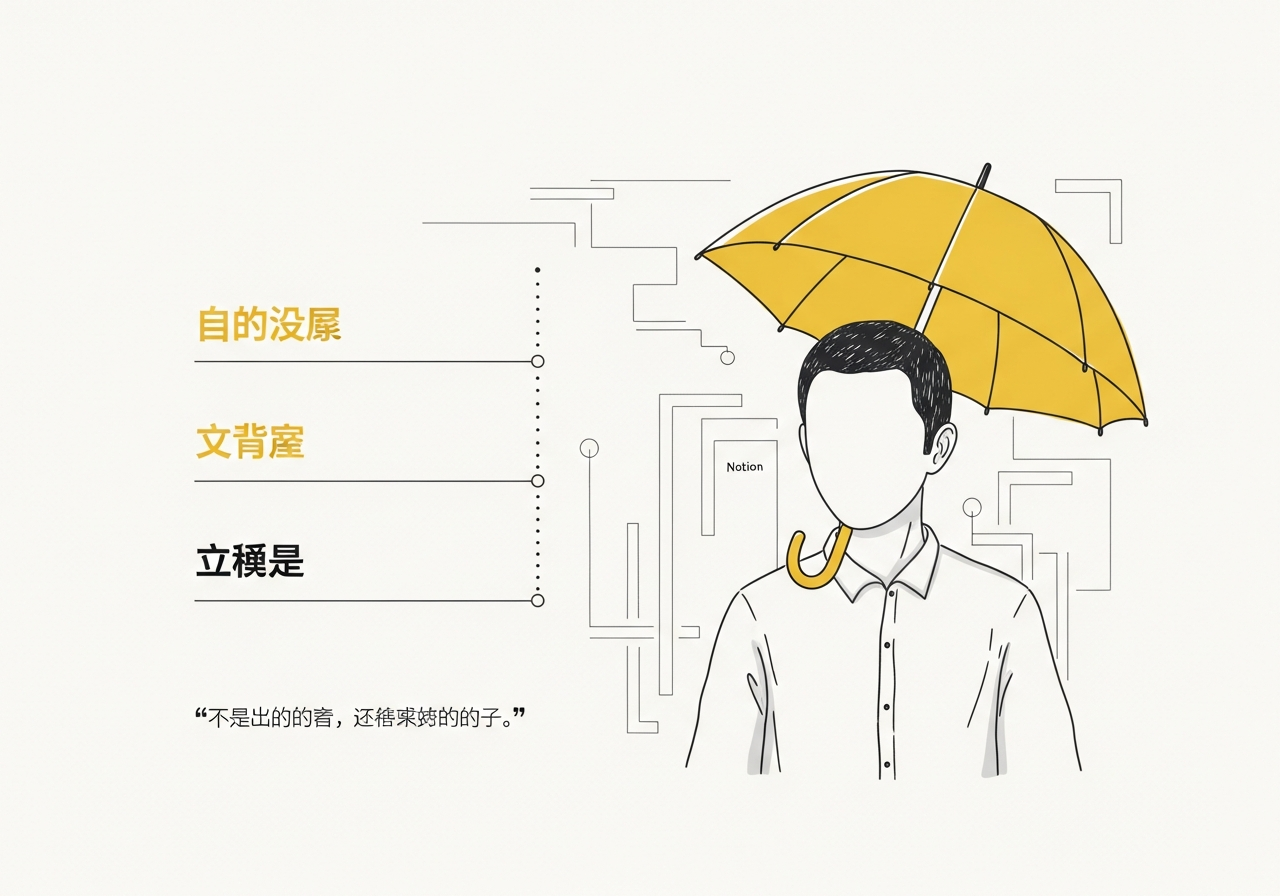
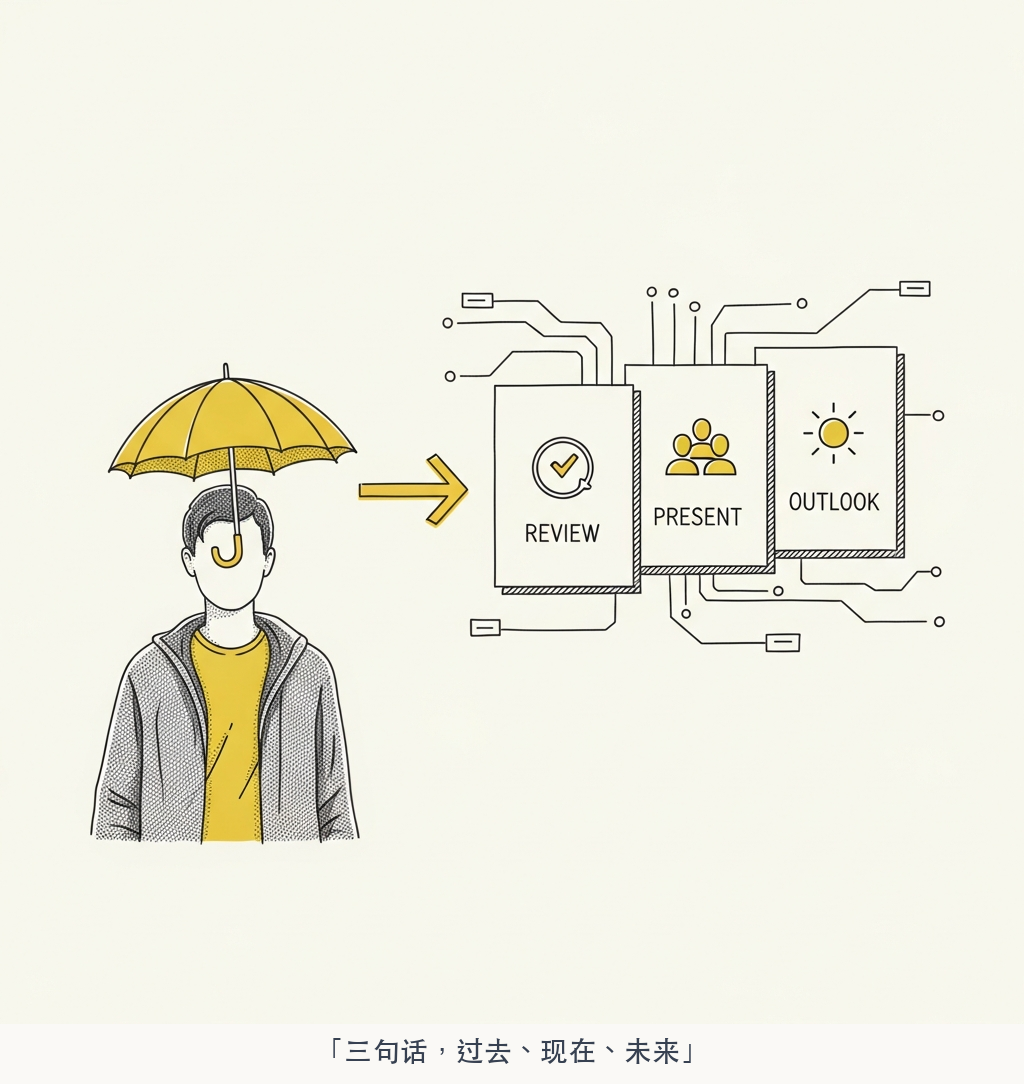
fix: 重新生成 15 张插图，PIL 叠加正确中文文字

diff --git a/imgs/generate_images.py b/imgs/generate_images.py
@@ -1,0 +1,113 @@
+#!/usr/bin/env python3
+"""Generate article illustrations using Google Gemini imagen-3.0-generate-002"""
+
+import base64
+import json
+import os
+import sys
+import urllib.request
+
+API_KEY = "REDACTED"
+OUTPUT_DIR = os.path.dirname(os.path.abspath(__file__))
+
+BASE_STYLE = """Minimal hand-drawn illustration with a subtle tech edge. Off-white paper background, dark gray sketch lines, muted umbrella yellow as the only accent color, with occasional thin circuit-trace or node-graph line details woven into the composition. Lots of negative space, Notion-like doodle aesthetic meets minimal blueprint hints. Faceless round-headed human figure, clean editorial composition, conceptual rather than literal, simple background. No realism, no 3D, no painterly texture, no high saturation, no complex scene, no photographic detail. The overall mood is restrained, lucid, slightly ironic, and emotionally calm. Keep the whole series visually consistent. Use Chinese wherever possible for any visible language or textual content, unless a proper noun, technical term, or special usage is better kept in its original form."""
+
+IMAGES = [
+    {
+        "filename": "01-resume-01.png",
+        "scene": 'Scene: A faceless round-headed figure holding a piece of paper (resume), next to it large bold text "10秒", and an interviewer figure quickly flipping pages. The concept is "resume = sales copy". Add one short Chinese quote in a natural handwritten style near the bottom: 「简历不是档案，是你的销售文案」'
+    },
+    {
+        "filename": "01-resume-02.png",
+        "scene": 'Scene: One-page resume principle. A refined single-page resume drawn as a shield shape, highlighted in muted yellow. Next to it, a pile of multi-page resumes crossed out with X marks. Add one short Chinese quote in a natural handwritten style near the bottom: 「一页放不下，说明你还没想清楚」'
+    },
+    {
+        "filename": "01-resume-03.png",
+        "scene": 'Scene: STAR method. Four interconnected gears labeled with letters S, T, A, R respectively. Between the gears there are data curves and percentage symbols. Add one short Chinese quote in a natural handwritten style near the bottom: 「没有数字的经历就是空气」'
+    },
+    {
+        "filename": "01-resume-04.png",
+        "scene": 'Scene: Planting hooks. A resume page with several lines of text, each line ending with a fish hook icon, representing guiding the interviewer to ask questions. Add one short Chinese quote in a natural handwritten style near the bottom: 「好简历是一个钩子矩阵」'
+    },
+    {
+        "filename": "01-resume-05.png",
+        "scene": 'Scene: Personal summary in three sentences. Three lines of text stacked, labeled "过去" (past), "现在" (present), "未来" (future), forming a clean timeline. Add one short Chinese quote in a natural handwritten style near the bottom: 「三句话，过去、现在、未来」'
+    },
+]
+
+
+def generate_image(prompt, output_path):
+    """Generate image using Gemini 2.0 Flash with image generation."""
+    url = f"https://generativelanguage.googleapis.com/v1beta/models/gemini-2.0-flash-exp:generateContent?key={API_KEY}"
+
+    payload = {
+        "contents": [
+            {
+                "parts": [
+                    {
+                        "text": f"Generate an illustration based on this description. Output ONLY the image, no text response.\n\n{prompt}"
+                    }
+                ]
+            }
+        ],
+        "generationConfig": {
+            "responseModalities": ["IMAGE", "TEXT"],
+            "responseMimeType": "text/plain"
+        }
+    }
+
+    req = urllib.request.Request(
+        url,
+        data=json.dumps(payload).encode('utf-8'),
+        headers={"Content-Type": "application/json"},
+        method="POST"
+    )
+
+    try:
+        with urllib.request.urlopen(req, timeout=120) as resp:
+            result = json.loads(resp.read().decode('utf-8'))
+
+        # Extract image from response
+        for candidate in result.get("candidates", []):
+            for part in candidate.get("content", {}).get("parts", []):
+                if "inlineData" in part:
+                    img_data = base64.b64decode(part["inlineData"]["data"])
+                    with open(output_path, "wb") as f:
+                        f.write(img_data)
+                    print(f"  Saved: {output_path} ({len(img_data)} bytes)")
+                    return True
+
+        print(f"  No image in response. Response keys: {list(result.keys())}")
+        if "candidates" in result:
+            for c in result["candidates"]:
+                for p in c.get("content", {}).get("parts", []):
+                    if "text" in p:
+                        print(f"  Text response: {p['text'][:200]}")
+        return False
+
+    except Exception as e:
+        print(f"  Error: {e}")
+        if hasattr(e, 'read'):
+            err_body = e.read().decode('utf-8')[:500]
+            print(f"  Response: {err_body}")
+        return False
+
+
+def main():
+    # If a specific index is given, only generate that one
+    indices = range(len(IMAGES))
+    if len(sys.argv) > 1:
+        indices = [int(x) for x in sys.argv[1:]]
+
+    for i in indices:
+        img = IMAGES[i]
+        print(f"\n[{i+1}/5] Generating {img['filename']}...")
+        prompt = f"{BASE_STYLE}\n\n{img['scene']}"
+        output_path = os.path.join(OUTPUT_DIR, img["filename"])
+        success = generate_image(prompt, output_path)
+        if not success:
+            print(f"  FAILED to generate {img['filename']}")
+
+
+if __name__ == "__main__":
+    main()
